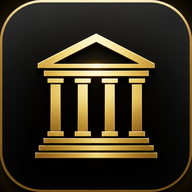
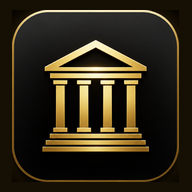
v81: ícono con marco dorado al 90% centrado sobre negro a sangre (mismo negro del badge = sin borde negro visible) + iconos marcados maskable. Antes el recorte al filo (v79) hacia que Android circular cortara todo el oro; ahora el marco queda dentro de la zona segura de iOS y Android sin cortarse

diff --git a/index.html b/index.html
@@ -7,7 +7,7 @@
   <link rel="preconnect" href="https://fonts.googleapis.com">
   <link rel="preconnect" href="https://fonts.gstatic.com" crossorigin>
   <link href="https://fonts.googleapis.com/css2?family=Inter:wght@300;400;500;600;700;800;900&display=swap" rel="stylesheet">
-  <link rel="stylesheet" href="styles.css?v=80">
+  <link rel="stylesheet" href="styles.css?v=81">
 
   <!-- Aplica tema ANTES del primer render para evitar flash de color incorrecto -->
   <script>
@@ -1452,8 +1452,8 @@
 
 </div><!-- /phone -->
 
-<script src="firebase.js?v=80"></script>
-<script src="app.js?v=80"></script>
+<script src="firebase.js?v=81"></script>
+<script src="app.js?v=81"></script>
 
 </body>
 </html>

diff --git a/sw.js b/sw.js
@@ -1,4 +1,4 @@
-const CACHE = 'nutripro-v80';
+const CACHE = 'nutripro-v81';
 const FILES = [
   './',
   './index.html',
